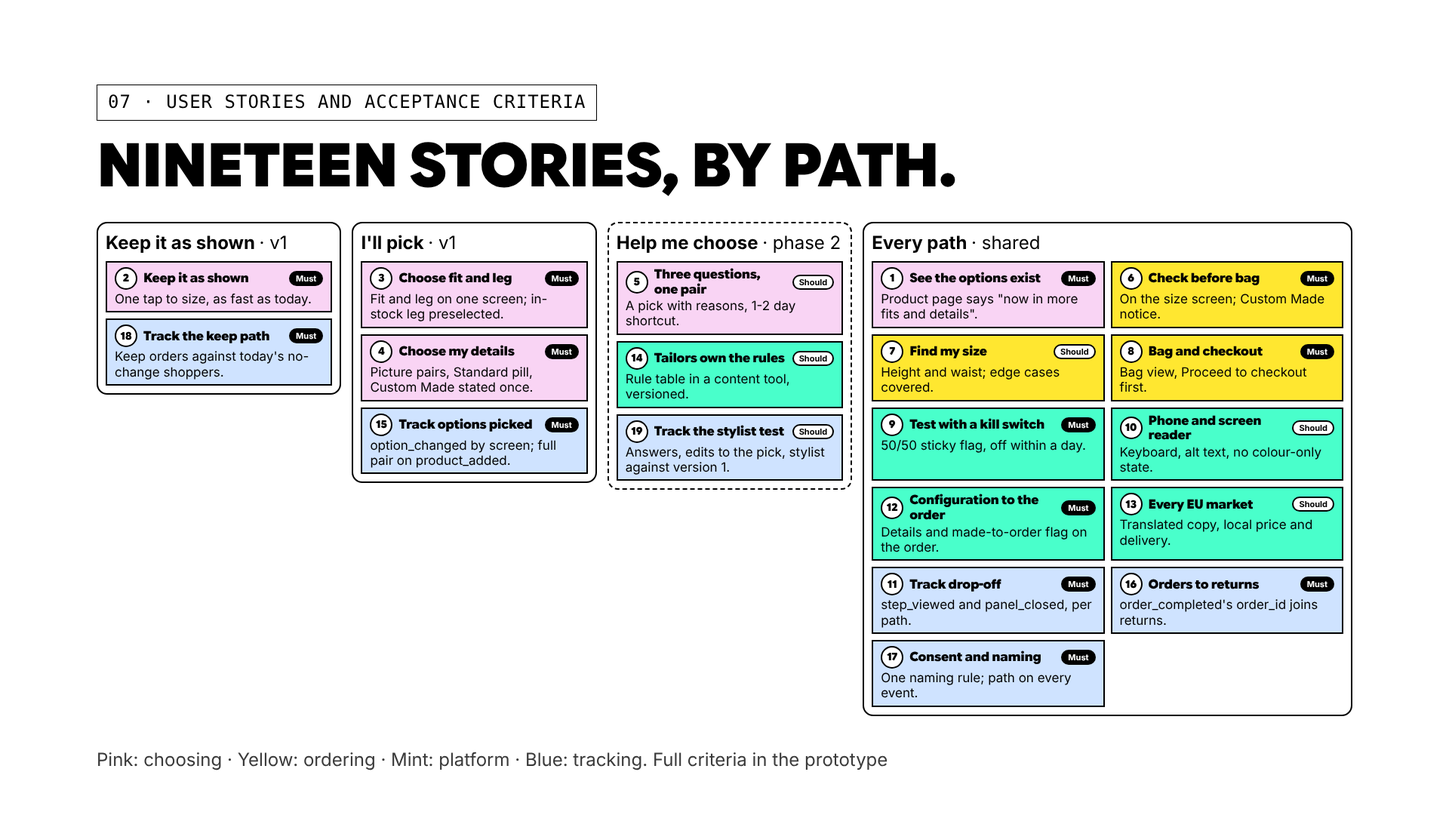
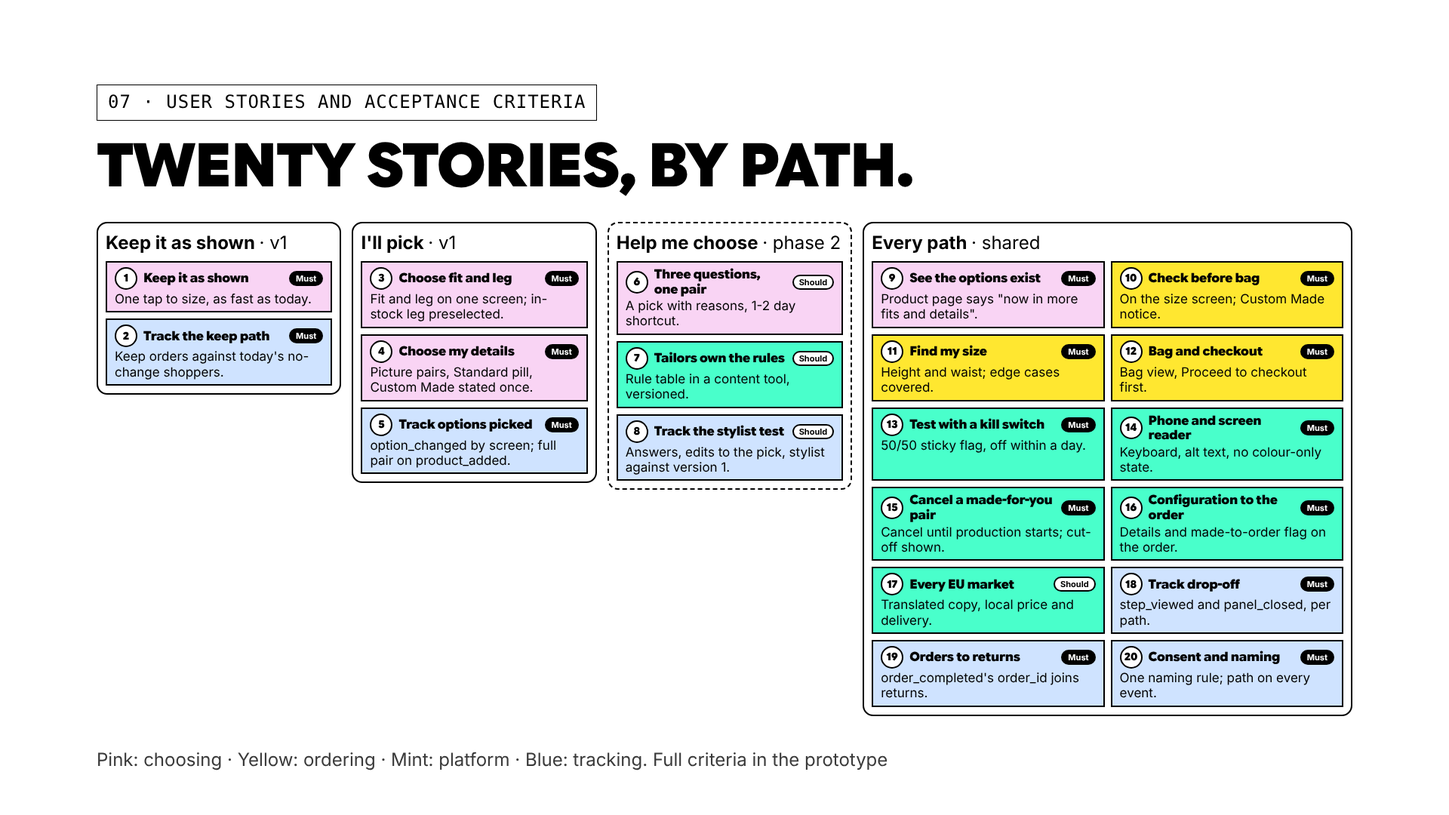
User stories: senior PM review fixes, cancel story, renumbered
Claude-Session: https://claude.ai/code/session_01ETR59BjANYhYvmkMk6ZvCT

diff --git a/index.html b/index.html
@@ -585,14 +585,15 @@ function recommend(){
   track('recommendation_shown',{...cfgProps(),rules_fired:fired.join(',')});
 }
 const STORIES=[
- {id:'US1',p:'all',pr:'Must',t:'See the options exist',screens:['pdp'],s:'As a customer on the product page, I want to see that these trousers come in more fits and details, so I know before I open the drawer.',ac:[
-  'The product page is otherwise unchanged. The line under Select size and fit reads "Now in more fits and details".',
-  'Delivery & Returns opens with the live policy text: free delivery and returns, 30-day return policy.',
-  'Price shows €179 and does not change anywhere in the flow, whatever the details.']},
- {id:'US2',p:'keep',pr:'Must',t:'Keep it as shown in one tap',screens:['choose'],s:'As a customer who just wants the trousers as shown, I want one tap to size, so buying stays as fast as today.',ac:[
+ {id:'US1',p:'keep',pr:'Must',t:'Keep it as shown in one tap',screens:['choose'],s:'As a customer who just wants the trousers as shown, I want one tap to size, so buying stays as fast as today.',ac:[
   'The drawer opens on "How do you want to choose?". In version 1 it has two cards: Keep it as shown first, saying it ships in 1-2 days, then I\'ll pick.',
-  'Keep goes straight to size with the Straight fit\'s standard details. No screen in between.',
-  'I\'ll pick leads to the fit step. Help me choose appears only in its own phase 2 test (US5).']},
+  'Keep goes straight to size with the Straight fit\'s standard details. No screen in between.','A size that is out of stock shows as out of stock and cannot be added, as today. It is never quietly turned into a made-for-you pair.',
+  'I\'ll pick leads to the fit step. Help me choose appears only in its own phase 2 test (US6).']},
+ {id:'US2',p:'keep',x:true,pr:'Must',t:'Track the keep path',screens:['choose','size','added'],s:'As the PM, I want to see how people who keep the pair as shown move and buy, so I know version 1 is as fast as today for them.',ac:[
+  'Choosing Keep sends path_selected with path keep, then one step_viewed for size and product_added with path keep and made_to_order false. No fit or details events fire on this path.',
+  'Taps from Select size and fit to Add to bag stay at 4, as today; the time from panel_opened to product_added can be read from the timestamps.',
+  'Orders per panel opened on the keep path can be compared with shoppers on today\'s panel who changed nothing. This is the "must not get worse" check.',
+  'Leaving at size sends panel_closed with from_step size and path keep, so size doubt on this path shows on its own.']},
  {id:'US3',p:'pick',pr:'Must',t:'Choose my fit and leg',screens:['fit'],s:'As a customer, I want to compare the three fits as photos and, where a fit has two legs, choose the leg, so I pick a shape without knowing tailoring terms.',ac:[
   'Fit shows three photo cards with a one-line description each. The chosen fit\'s photo appears on the model.',
   'Fit and leg are one screen. Tapping Slim or Wide shows Tapered or Straight under the fit photos, each with its delivery (In stock, 1-2 days, or Custom Made, 1-2 weeks), and scrolls it into view on a phone. Straight fit shows no leg choice.','The in-stock leg (tapered) is preselected, so Next works without a leg tap; Slim, Straight and Wide take the same number of taps.',
@@ -604,8 +605,13 @@ const STORIES=[
   'A tap updates the on-model photo immediately, without a page reload; the close-up views (Front, Side, Pleat, Waistband, Hem) match the current choices.',
   'Colour swatches (Sand, Black, Navy) sit at the top of the step; changing colour keeps fit and details and updates every photo.',
   'The copy states the trade once: any change is Custom Made, 1-2 weeks; standard details arrive in 1-2 days. The bottom bar shows the delivery for the current choices.',
-  'If a photo fails to load, the card still shows its name and outcome and stays tappable.']},
- {id:'US5',p:'stylist',pr:'Should',t:'Help me choose (phase 2 test)',screens:['stylist','rec'],s:'As an unsure customer, I want three quick questions and a recommended pair with reasons, so I don\'t have to understand the options.',ac:[
+  'If a photo fails to load, the card still shows its name and outcome and stays tappable.','A photo change shows within 1 second on a phone on 4G; photos for the chosen fit load in advance. The exact target is agreed with Engineering.']},
+ {id:'US5',p:'pick',x:true,pr:'Must',t:'Track which options people pick',screens:['fit','details','size','added'],s:'As the PM, I want to see which fit and details people pick and undo on the I\'ll pick path, so I know which options earn their place.',ac:[
+  'option_changed fires on every change with option, from_value, to_value and source (fit, leg or details), so a change can be traced to the screen it was made on.',
+  'product_added carries the full pair: colour, fit, leg, waistband, front, hem, size, length, path and made_to_order.',
+  'An option changed and then changed back within the same visit can be counted from option_changed alone.',
+  'Drop-off on the pick path reads fit and leg, details and size in order (step_viewed, panel_closed with path pick).']},
+ {id:'US6',p:'stylist',pr:'Should',t:'Help me choose (phase 2 test)',screens:['stylist','rec'],s:'As an unsure customer, I want three quick questions and a recommended pair with reasons, so I don\'t have to understand the options.',ac:[
   'Three tapped questions, no typing. Question 2 takes one body answer and one height answer on separate rows; one of each moves on by itself, Next covers a single answer, "Nothing really" skips.',
   'The pick comes from the rule table (Stylist rules tab) and changes at most 2 details from the fit\'s standard. The body answer sets the fit, the height answer sets leg and hem; a wedding keeps a plain hem.',
   'Every detail the stylist chose shows a one-line reason. Details it left alone show no reason.',
@@ -613,76 +619,74 @@ const STORIES=[
   'A Custom Made pick shows "Arrives in 1-2 weeks" and "Use the standard details (1-2 days)", which resets the three details in one tap. A ready-to-ship pick shows no extra box.',
   'Start over returns to the first question and clears the answers.',
   'Phase 2: ships behind its own flag as a separate A/B test once version 1 has a baseline; not part of version 1.']},
- {id:'US6',p:'all',pr:'Must',t:'Check my choices before I add to bag',screens:['size'],s:'As a customer ordering a pair made for me, I want to see all my choices next to the size buttons, so I catch a mistake before it is made without an extra screen.',ac:[
-  'The size screen starts with a small photo and one line: colour, fit and leg, front, waistband, hem and price, with "Change something" (except on the keep path).',
-  'A Custom Made pair (any changed detail, or Slim straight or Wide straight) shows "Made with your choices" under the size buttons, free delivery in 1-2 weeks and "Returns within 30 days." A standard pair shows no notice; the bottom bar says 1-2 business days.',
-  'Only a Custom Made pair shows the help line: Get help choosing starts the stylist from the first question and its pick replaces the current choices (stylist_opened); ask a stylist in store opens the store page (store_link_clicked).',
-  '"Change something" returns to the path\'s last step with every choice kept. There is no separate summary screen.']},
- {id:'US7',p:'all',pr:'Should',t:'Find my size',screens:['size'],s:'As a customer, I want my size from my height and waist, so a pair made for me is the right size first time.',ac:[
-  'Size buttons lead with the letter (M) and show the length\'s number under it. Length (Short, Regular, Long) is chosen by height: under 168, 168-186, over 186 cm. Changing length keeps the letter and swaps the number.',
-  'Find my size asks height and either a usual W size or a tape waist. Example test case: 184 cm and W32 gives M, 48 Regular (live conversion table; re-check when the size guide changes).',
-  'The result selects length and size, says "Selected for you", and near the top of a size offers the next size up in one tap.',
-  'Both fields empty: "Add your height and waist", no result. Waist above the largest size: "Larger than our biggest size" with the WhatsApp stylist line. Wide fit: the result says it uses the Straight chart.',
-  'Add to bag stays disabled until a size is selected. The size chart opens inline for the chosen fit and length.']},
- {id:'US8',p:'all',pr:'Must',t:'Bag and checkout',screens:['added'],s:'As a customer, I want to see what I added and go straight to checkout, so I can pay without hunting for the bag.',ac:[
-  'Add to bag opens the bag: the item with photo, colour, fit, details and size, a Custom Made pill when it applies, delivery (1-2 business days or 1-2 weeks) and total.',
-  'Proceed to checkout is the main button. Continue shopping returns to the product page and keeps the bag. The header Bag opens the same view from any screen; an empty bag says so.',
-  'Checkout itself is unchanged. Depends on US12: the Custom Made details and delivery time carry through to checkout and the order.']},
- {id:'US9',p:'all',x:true,pr:'Must',t:'Run it as a test with a kill switch',screens:['pdp','choose','added'],s:'As the PM, I want the new drawer behind a feature flag with 50/50 assignment, so I can run the A/B test and switch it off within a day if add-to-bag drops.',ac:[
-  'Assignment is 50/50 per customer and sticky: a 12-month cookie for guests, the account for signed-in customers, as with the current A/B tooling. The variant is a property on every event.',
-  'Flag off returns the live yes/no flow with no trace of the new screens. Flag on shows the two-way choose screen (keep or pick). The stylist is a separate flag and a separate test (US5).',
-  'The flag can be changed per market without a release. Target: off within one working day of the week-2 check (orders down 10% or more).',
-  'The size finder and the stylist are separate flags, so either can be switched off without losing the options.']},
- {id:'US10',p:'all',x:true,pr:'Should',t:'Usable on a phone and with a screen reader',screens:['choose','fit','details','size'],s:'As a customer on a phone or using a screen reader, I want every option reachable and named, so I can order without a mouse or without seeing the pictures.',ac:[
-  'On a phone the drawer is a bottom sheet with the photo above; every step works at 390 px wide with no horizontal scroll and the main button always visible.',
-  'Every picture card is a button with a text name and outcome; the selected state uses a border and the Standard pill, not colour alone, and is exposed as aria-pressed.',
-  'All steps complete by keyboard alone: Tab reaches every card and button, Enter or Space selects, Escape closes the drawer.',
-  'Each on-model and close-up image has alt text that names the current fit and details.']},
- {id:'US11',p:'all',x:true,pr:'Must',t:'Track where people drop off',screens:['choose','fit','details','stylist','rec','size','added'],s:'As the PM, I want to know on which screen people leave, for each way of choosing, so I fix the screen that loses the most people first.',ac:[
-  'Every screen of the panel sends step_viewed once when it is shown, with step, step_number and path.',
-  'Leaving the panel sends panel_closed with from_step and reason: back to the page, restart or left the page.',
-  'Each way of choosing has its own funnel, built from these events alone: keep (choose, size, bag), pick (choose, fit and leg, details, size, bag), stylist (choose, questions, recommendation, size, bag). The Events tab map is the reference.',
-  'Going back fires step_viewed again, so funnels count unique panel_session_id per step, not events. Someone who switches to the stylist from size keeps their first path for the funnel (path_selected with source size marks the switch).','Test: walking keep, pick and stylist paths in the prototype gives one step_viewed per screen shown.']},
- {id:'US15',p:'pick',x:true,pr:'Must',t:'Track which options people pick',screens:['fit','details','size','added'],s:'As the PM, I want to see which fit and details people pick and undo on the I\'ll pick path, so I know which options earn their place.',ac:[
-  'option_changed fires on every change with option, from_value, to_value and source (fit, leg or details), so a change can be traced to the screen it was made on.',
-  'product_added carries the full pair: colour, fit, leg, waistband, front, hem, size, length, path and made_to_order.',
-  'An option changed and then changed back within the same visit can be counted from option_changed alone.',
-  'Drop-off on the pick path reads fit and leg, details and size in order (step_viewed, panel_closed with path pick).']},
- {id:'US18',p:'keep',x:true,pr:'Must',t:'Track the keep path',screens:['choose','size','added'],s:'As the PM, I want to see how people who keep the pair as shown move and buy, so I know version 1 is as fast as today for them.',ac:[
-  'Choosing Keep sends path_selected with path keep, then one step_viewed for size and product_added with path keep and made_to_order false. No fit or details events fire on this path.',
-  'Taps from Select size and fit to Add to bag stay at 4, as today; the time from panel_opened to product_added can be read from the timestamps.',
-  'Orders per panel opened on the keep path can be compared with shoppers on today\'s panel who changed nothing. This is the "must not get worse" check.',
-  'Leaving at size sends panel_closed with from_step size and path keep, so size doubt on this path shows on its own.']},
- {id:'US19',p:'stylist',x:true,pr:'Should',t:'Track the stylist test (phase 2)',screens:['stylist','rec','size','added'],s:'As the PM, I want every stylist step recorded, so the phase 2 test can say whether the stylist sells more pairs than version 1, and which rules people disagree with.',ac:[
-  'Each answer sends stylist_question_answered with question_id, answer and step_number, so drop-off per question can be read.',
+ {id:'US7',p:'stylist',x:true,pr:'Should',t:'Tailors own the stylist rules',screens:['stylist','rec'],s:'As the tailoring team, I want to change the stylist\'s rules and reasons without a release, so the advice stays ours.',ac:[
+  'The rule table (occasion, body, height, belt, with set, why and source) lives in a content tool, not in code; a change is live within an hour.',
+  'Every change is logged with who and when; the previous version can be restored.',
+  'A rule can only choose from the fixed options; it cannot add an option, change a price or promise a delivery time.',
+  'recommendation_shown carries the rule-table version, so results can be read per version.']},
+ {id:'US8',p:'stylist',x:true,pr:'Should',t:'Track the stylist test (phase 2)',screens:['stylist','rec','size','added'],s:'As the PM, I want every stylist step recorded, so the phase 2 test can say whether the stylist sells more pairs than version 1, and which rules people disagree with.',ac:[
+  'Each answer sends stylist_question_answered with question_id, answer and question_number, so drop-off per question can be read.',
   'recommendation_shown carries the pair and rules_fired; recommendation_accepted carries the pair and edits (0 means kept as suggested).',
   'option_changed with source stylist shows which suggested detail people change; standard_details_selected shows who swaps to the faster standard pair.',
   'stylist_opened from the size screen, with path_selected source size, counts people who switch to the stylist midway.',
   'The stylist has its own flag and variant, so results compare stylist against version 1, not against today.']},
- {id:'US16',p:'all',x:true,pr:'Must',t:'Link orders to returns',screens:['added'],s:'As the analyst, I want every order from the panel linked to its return and return reason, so we can read return rates for Custom Made against normal pairs.',ac:[
-  'Checkout sends order_completed (server side, not in this prototype) with order_id, the full pair, path, made_to_order and panel_session_id. product_added cannot carry the order ID because the order does not exist yet.',
-  'The order ID joins to the return record and its reason, and to cancellations before shipping.',
-  'Return rates can be cut by path, made_to_order, size-finder use and device.']},
- {id:'US17',p:'all',x:true,pr:'Must',t:'Consent and one naming rule',screens:['pdp','choose','size','added'],s:'As the data team, I want every event named one way and sent only with consent, so the data is clean and lawful in every EU market.',ac:[
-  'Event names are object_action in the past tense, in snake_case (panel_opened, product_added). Feature and variant are properties, not part of the name.',
-  'Every event carries panel_session_id (one per panel opening, so a funnel counts people, not repeat views), feature, variant, path (keep, pick, stylist or none before the choice), device, market, colour, product_id and timestamp.',
-  'Nothing fires before analytics consent. Height and waist from Find my size are not sent with the shopping events.',
-  'QA: the Events tab is the reference; each event there appears in the live build with the same name and properties.']},
- {id:'US12',p:'all',x:true,pr:'Must',t:'Pass the configuration to the order',screens:['added'],s:'As the operations team, I want every order line to carry the chosen fit and details and a made-to-order flag, so the right pair is made, shipped, confirmed and returned.',ac:[
+ {id:'US9',p:'all',pr:'Must',t:'See the options exist',screens:['pdp'],s:'As a customer on the product page, I want to see that these trousers come in more fits and details, so I know before I open the drawer.',ac:[
+  'The product page is otherwise unchanged. The line under Select size and fit reads "Now in more fits and details".',
+  'Delivery & Returns opens with the live policy text: free delivery and returns, 30-day return policy.',
+  'Price shows €179 and does not change anywhere in the flow, whatever the details.']},
+ {id:'US10',p:'all',pr:'Must',t:'Check my choices before I add to bag',screens:['size'],s:'As a customer ordering a pair made for me, I want to see all my choices next to the size buttons, so I catch a mistake before it is made without an extra screen.',ac:[
+  'The size screen starts with a small photo and one line: colour, fit and leg, front, waistband, hem and price, with "Change something" (except on the keep path).',
+  'Custom Made means any changed detail, or Slim or Wide with a straight leg. Such a pair shows "Made with your choices" under the size buttons, free delivery in the Custom Made time from Production (1-2 weeks is my assumption) and "Returns within 30 days." A standard pair shows no notice; the bottom bar says 1-2 business days.',
+  'Only a Custom Made pair shows the help line. In version 1 it offers only "ask a stylist in store", which opens the store page (store_link_clicked). Get help choosing appears only when the phase 2 stylist flag is on: it starts the stylist from the first question and its pick replaces the current choices (stylist_opened).',
+  '"Change something" returns to the path\'s last step with every choice kept. There is no separate summary screen.']},
+ {id:'US11',p:'all',pr:'Must',t:'Find my size',screens:['size'],s:'As a customer, I want my size from my height and waist, so a pair made for me is the right size first time.',ac:[
+  'Size buttons lead with the letter (M) and show the length\'s number under it. Length (Short, Regular, Long) is chosen by height: under 168, 168-186, over 186 cm. Changing length keeps the letter and swaps the number.',
+  'Find my size asks height and either a usual W size or a tape waist. Example test case: 184 cm and W32 gives M, 48 Regular (live conversion table; re-check when the size guide changes).',
+  'The result selects length and size, says "Selected for you", and near the top of a size offers the next size up in one tap.',
+  'Both fields empty: "Add your height and waist", no result. Waist above the largest size: "Larger than our biggest size" with the WhatsApp stylist line. Wide fit: the result says it uses the Straight chart.',
+  'Add to bag stays disabled until a size is selected. The size chart opens inline for the chosen fit and length.','Must, not Should: a wrong size on a made-for-you pair cannot be resold.']},
+ {id:'US12',p:'all',pr:'Must',t:'Bag and checkout',screens:['added'],s:'As a customer, I want to see what I added and go straight to checkout, so I can pay without hunting for the bag.',ac:[
+  'Add to bag opens the bag: the item with photo, colour, fit, details and size, a Custom Made pill when it applies, delivery (1-2 business days or 1-2 weeks) and total.',
+  'Proceed to checkout is the main button. Continue shopping returns to the product page and keeps the bag. The header Bag opens the same view from any screen; an empty bag says so.',
+  'Checkout itself is unchanged. Depends on US16: the Custom Made details and delivery time carry through to checkout and the order.']},
+ {id:'US13',p:'all',x:true,pr:'Must',t:'Run it as a test with a kill switch',screens:['pdp','choose','added'],s:'As the PM, I want the new drawer behind a feature flag with 50/50 assignment, so I can run the A/B test and switch it off within a day if orders drop 10% or more.',ac:[
+  'Assignment is 50/50 per customer and sticky: a 12-month cookie for guests, the account for signed-in customers, as with the current A/B tooling. The variant is a property on every event.',
+  'Flag off returns the live yes/no flow with no trace of the new screens. Flag on shows the two-way choose screen (keep or pick). The stylist is a separate flag and a separate test (US6).',
+  'The flag can be changed per market without a release. Target: off within one working day of the week-2 check (orders down 10% or more).',
+  'The size finder and the stylist are separate flags, so either can be switched off without losing the options.']},
+ {id:'US14',p:'all',x:true,pr:'Must',t:'Usable on a phone and with a screen reader',screens:['choose','fit','details','size'],s:'As a customer on a phone or using a screen reader, I want every option reachable and named, so I can order without a mouse or without seeing the pictures.',ac:[
+  'On a phone the drawer is a bottom sheet with the photo above; every step works at 390 px wide with no horizontal scroll and the main button always visible.',
+  'Meets WCAG 2.1 AA, the standard behind the EU Accessibility Act, which has applied to online shops since June 2025.','Every picture card is a button with a text name and outcome; the selected state uses a border and the Standard pill, not colour alone, and is exposed as aria-pressed.',
+  'All steps complete by keyboard alone: Tab reaches every card and button, Enter or Space selects, Escape closes the drawer.',
+  'Each on-model and close-up image has alt text that names the current fit and details.']},
+ {id:'US15',p:'all',x:true,pr:'Must',t:'Cancel a made-for-you pair',screens:['added'],s:'As a customer who ordered a pair made for me, I want to know until when I can cancel, so I do not feel locked in before it is made.',ac:[
+  'Until production starts, a Custom Made order can be cancelled in My account or through Customer Service, with a full refund. Production sets the cut-off.',
+  'The bag, the order confirmation email and the order page say until when the order can be cancelled.',
+  'Cancellations are recorded on the order, so they join to order_id with returns (US19) and count as the early warning in plan question 3.']},
+ {id:'US16',p:'all',x:true,pr:'Must',t:'Pass the configuration to the order',screens:['added'],s:'As the operations team, I want every order line to carry the chosen fit and details and a made-to-order flag, so the right pair is made, shipped, confirmed and returned.',ac:[
   'The order line carries colour, fit, leg, waistband, front, hem, size and length, plus made_to_order true or false and the delivery promise (1-2 days or 1-2 weeks).',
   'A standard pair is picked from stock as today. A Custom Made pair creates a production order with the same details; nothing is picked from stock.',
   'Checkout and the confirmation email show the details and the delivery time the customer saw. The Custom Made notice wording is the same as on the size screen.',
   'Customer Service sees the details and the flag on the order, so a return request is handled under the Custom Made rule.']},
- {id:'US13',p:'all',x:true,pr:'Should',t:'Works in every EU market',screens:['pdp','choose','details','stylist','size'],s:'As a customer in any EU market, I want the options, the stylist and the delivery promise in my language and currency, so the flow feels local.',ac:[
+ {id:'US17',p:'all',x:true,pr:'Should',t:'Works in every EU market',screens:['pdp','choose','details','stylist','size'],s:'As a customer in any EU market, I want the options, the stylist and the delivery promise in my language and currency, so the flow feels local.',ac:[
   'All copy, including the stylist\'s questions, answers and reasons, is translatable and ships in every language CM Lite is live in.',
   'Price shows in the market\'s currency; delivery times come from the market\'s delivery settings, not fixed text.',
   'Sizes follow the market\'s size guide; the size finder\'s thresholds and conversions are per market.',
-  'The feature flag (US9) can differ per market.']},
- {id:'US14',p:'stylist',x:true,pr:'Should',t:'Tailors own the stylist rules',screens:['stylist','rec'],s:'As the tailoring team, I want to change the stylist\'s rules and reasons without a release, so the advice stays ours.',ac:[
-  'The rule table (occasion, body, height, belt, with set, why and source) lives in a content tool, not in code; a change is live within an hour.',
-  'Every change is logged with who and when; the previous version can be restored.',
-  'A rule can only choose from the fixed options; it cannot add an option, change a price or promise a delivery time.',
-  'recommendation_shown carries the rule-table version, so results can be read per version.']}
+  'The feature flag (US13) can differ per market.']},
+ {id:'US18',p:'all',x:true,pr:'Must',t:'Track where people drop off',screens:['choose','fit','details','stylist','rec','size','added'],s:'As the PM, I want to know on which screen people leave, for each way of choosing, so I fix the screen that loses the most people first.',ac:[
+  'Every screen of the panel sends step_viewed once when it is shown, with step, step_number and path.',
+  'Leaving the panel sends panel_closed with from_step and reason: back to the page, restart or left the page.',
+  'Each way of choosing has its own funnel, built from these events alone: keep (choose, size, bag), pick (choose, fit and leg, details, size, bag), stylist (choose, questions, recommendation, size, bag). The Events tab map is the reference.',
+  'Going back fires step_viewed again, so funnels count unique panel_session_id per step, not events. Someone who switches to the stylist from size keeps their first path for the funnel (path_selected with source size marks the switch).','Test: walking keep, pick and stylist paths in the prototype gives one step_viewed per screen shown.']},
+ {id:'US19',p:'all',x:true,pr:'Must',t:'Link orders to returns',screens:['added'],s:'As the analyst, I want every order from the panel linked to its return and return reason, so we can read return rates for Custom Made against normal pairs.',ac:[
+  'Checkout sends order_completed (server side, not in this prototype) with order_id, the full pair, path, made_to_order and panel_session_id. product_added cannot carry the order ID because the order does not exist yet.',
+  'The order ID joins to the return record and its reason, and to cancellations before shipping.',
+  'Return rates can be cut by path, made_to_order, size-finder use and device.','Full Custom Made orders for trousers are counted in both halves of the test, so we see whether Lite brings new sales or takes them from full Custom Made.']},
+ {id:'US20',p:'all',x:true,pr:'Must',t:'Consent and one naming rule',screens:['pdp','choose','size','added'],s:'As the data team, I want every event named one way and sent only with consent, so the data is clean and lawful in every EU market.',ac:[
+  'Event names are object_action in the past tense, in snake_case (panel_opened, product_added). Feature and variant are properties, not part of the name.',
+  'Every event carries panel_session_id (one per panel opening, so a funnel counts people, not repeat views), feature, variant, path (keep, pick, stylist or none before the choice), device, market, colour, product_id and timestamp.',
+  'Nothing fires before analytics consent. Height and waist from Find my size are not sent with the shopping events.',
+  'QA: the Events tab is the reference; each event there appears in the live build with the same name and properties.']},
 ];
 const PATHS={keep:'Keep it as shown',pick:'I\'ll pick',stylist:'Help me choose · phase 2',all:'Every path'};
 const storyHtml=u=>`<div class="us"><div class="id">${u.id} · ${esc(u.t)} <span class="pr ${u.pr==='Must'?'must':''}">${u.pr} for v1</span> <span class="pt">${PATHS[u.p]}</span></div><div class="st">${esc(u.s)}</div><ul>${u.ac.map(a=>`<li>${a}</li>`).join('')}</ul></div>`;
@@ -692,8 +696,8 @@ function storiesHtml(key){
   if(showAllStories){
     const kind=u=>/^Track|^Link orders|^Consent/.test(u.t)?'Tracking':u.x?'Platform':'Customer';
     const grp=k=>{const us=STORIES.filter(u=>u.p===k);return `<div class="usg${k==='stylist'?' p2':''}"><div class="ugh">${PATHS[k]} <span>${us.length} stories</span></div>${['Customer','Platform','Tracking'].map(t=>{const x=us.filter(u=>kind(u)===t);return x.length?`<div class="ugk">${t}</div>`+x.map(storyHtml).join(''):''}).join('')}</div>`;};
-    return `<div class="note">All nineteen stories, grouped by way of choosing. Keep and I'll pick are version 1; Help me choose is its own phase 2 test. Every path holds what all three share. Must = v1 cannot ship without it; Should = ship in v1 if the sprint allows, otherwise next. Each acceptance criterion maps to a screen in this prototype or to an event in the Events tab. Out of scope for v1: checkout, store booking, a surcharge, real Black and Navy photos. <button class="link" id="allStories" style="color:#fff">Show this screen only</button></div>`+['keep','pick','stylist','all'].map(grp).join('');}
-  return `<div class="note" style="color:#9a9a95">User stor${here.length>1?'ies':'y'} for this screen. Each acceptance criterion maps to what you see here or to an event in the Events tab. <button class="link" id="allStories" style="color:#fff">Show all 19, by path</button></div>`+here.map(storyHtml).join('')+(also.length?`<div class="note" style="color:#9a9a95;font-size:11px;border-bottom:0">Also applies here: ${also.map(u=>u.id+' '+esc(u.t)).join(' · ')}. See Show all 19.</div>`:'');
+    return `<div class="note">All twenty stories, grouped by way of choosing. Keep and I'll pick are version 1; Help me choose is its own phase 2 test. Every path holds what all three share. Must = v1 cannot ship without it; Should = ship in v1 if the sprint allows, otherwise next. Each acceptance criterion maps to a screen in this prototype or to an event in the Events tab. Custom Made means any changed detail, or Slim or Wide with a straight leg; its delivery time comes from Production, and the 1-2 weeks used throughout is my assumption. Out of scope for v1: checkout, store booking, a surcharge, real Black and Navy photos. <button class="link" id="allStories" style="color:#fff">Show this screen only</button></div>`+['keep','pick','stylist','all'].map(grp).join('');}
+  return `<div class="note" style="color:#9a9a95">User stor${here.length>1?'ies':'y'} for this screen. Each acceptance criterion maps to what you see here or to an event in the Events tab. <button class="link" id="allStories" style="color:#fff">Show all 20, by path</button></div>`+here.map(storyHtml).join('')+(also.length?`<div class="note" style="color:#9a9a95;font-size:11px;border-bottom:0">Also applies here: ${also.map(u=>u.id+' '+esc(u.t)).join(' · ')}. See Show all 20.</div>`:'');
 }
 function planHtml(){
   const rows=[
@@ -705,7 +709,7 @@ function planHtml(){
   const li=a=>`<ul style="margin:4px 0 0;padding-left:16px">${a.map(x=>`<li style="margin:3px 0;line-height:1.4">${x}</li>`).join('')}</ul>`;
   return `<div class="note"><b>How we\'ll know it worked.</b> Half of shoppers see the new panel, half see today\'s, in every EU market. Three questions decide. The numbers are first guesses; real figures from today\'s site replace them before launch.${tbl}</div>
   <div class="note"><b>When we decide.</b> Week 8: questions 1 and 2, plus cancellations. Week 15: returns. A Custom Made pair takes 1-2 weeks to arrive and the customer has 30 days to send it back, so returns are the last thing we can read.</div>
-  <div class="note"><b>Off switch.</b> After 2 weeks, if the new panel brings 10% or more fewer orders and we are sure it is not chance, we turn it off and everyone sees today\'s panel again (US9).</div>
+  <div class="note"><b>Off switch.</b> After 2 weeks, if the new panel brings 10% or more fewer orders and we are sure it is not chance, we turn it off and everyone sees today\'s panel again (US13).</div>
   <div class="note"><b>Keeping it short.</b> Taps from "Select size and fit" to Add to bag: today 4 · keep as shown 4 · pick, nothing changed 6 · pick, one detail changed 7 · stylist (phase 2) 8-9. Fit and leg share one screen, so choosing Slim or Wide costs the same as any other single change. No study ties a number of clicks to conversion: Nielsen Norman Group says the three-click rule has no published support. The closest benchmark is checkout length: Baymard finds an average checkout of 5.1 steps, and 17% of shoppers have left one for being too long or complicated. So the default path stays as short as today, and the test checks whether the extra taps on the pick path cost orders.</div>
   <div class="note"><b>Two things that must not get worse.</b> Custom Made pairs still arrive within 2 weeks. Shoppers who change nothing buy as easily as they do today.</div>
   <div class="note"><b>Each way of choosing, measured on its own.</b> Every event carries the path (keep, pick or stylist), so each question above can be read per path. Starting numbers are first guesses, like the ones above.
@@ -748,7 +752,7 @@ function planHtml(){
    '<b>Pricing and Finance:</b> should the options cost extra? How much do we lose on each Custom Made pair that comes back? The prototype keeps the price at €179.',
    '<b>Data:</b> today\'s real numbers above, and are there enough shoppers to see a 10% change in orders within 8 weeks? If not, we watch "added to bag" first, because it happens more often.',
    '<b>Tailoring (phase 2):</b> will you own the stylist rules, and which would you change first?',
-   '<b>Brand and content:</b> is "Custom Made" the right name for these pairs, and who writes the words for each country (US13)?'])}</div>
+   '<b>Brand and content:</b> is "Custom Made" the right name for these pairs, and who writes the words for each country (US17)?'])}</div>
   <div class="note"><b>Roadmap.</b> We move to the next step when the numbers say so, not on a fixed date. ${li([
    '<b>Now: test the first version.</b> Two ways of choosing (keep as shown, or pick), three options, the check on the size screen and Find my size, shown to half of shoppers. Answer Legal, Production and Pricing at the same time. Move on when orders stay within 5% of today and 15 in 100 orders use an option.',
    '<b>Next: test the stylist, open it to everyone, make it solid.</b> Help me choose gets its own A/B test against version 1. It comes second because it is a new kind of flow for existing customers and a bigger build: tailors and designers must own and update the rules. I\'ll pick comes first because it is close to today\'s fit step, a small build, and shows whether people want the choices at all. All Custom Made Lite trousers, tailors own the stylist rules, real product photos for every mix, return rule confirmed in every country. Move on when returns stay within 3 extra per 100 pairs.',

diff --git a/README.md b/README.md
@@ -179,3 +179,5 @@ The 10 slides as images, in order, are in [deck/](deck/) (slide-01.png to slide-
 - v94: Plan tab checks reordered (cheap and fast first), money and systems checks added, Lite vs full Custom Made added to least sure.
 
 - v95: product page design note on Delivery and Returns wording removed.
+
+- v96: user story review. Twenty stories, numbered in the order shown. Fixes: version 1 size-screen help line, off switch on orders, question_number, Custom Made defined once with the 1-2 weeks as an assumption. Added: cancel a made-for-you pair (US15), full Custom Made orders tracked, out-of-stock sizes, photo speed. Accessibility and Find my size are now Must.
